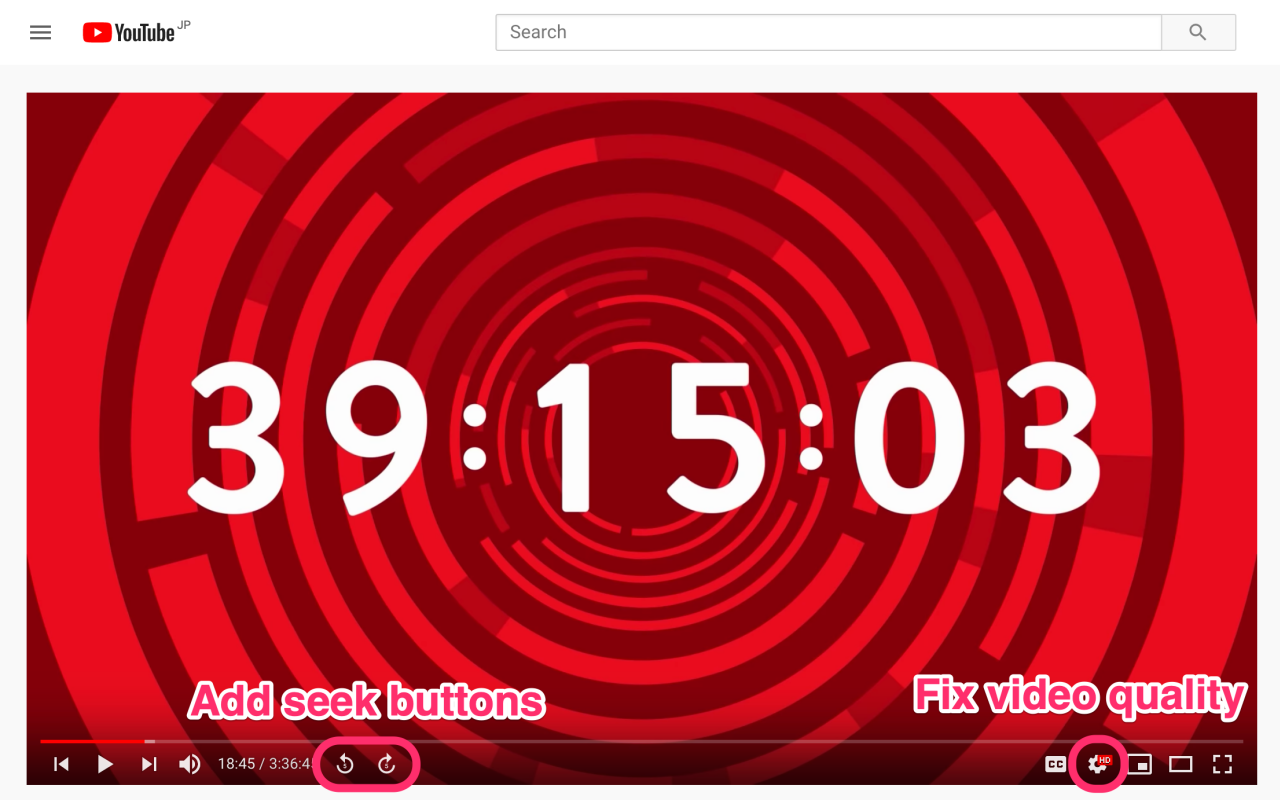
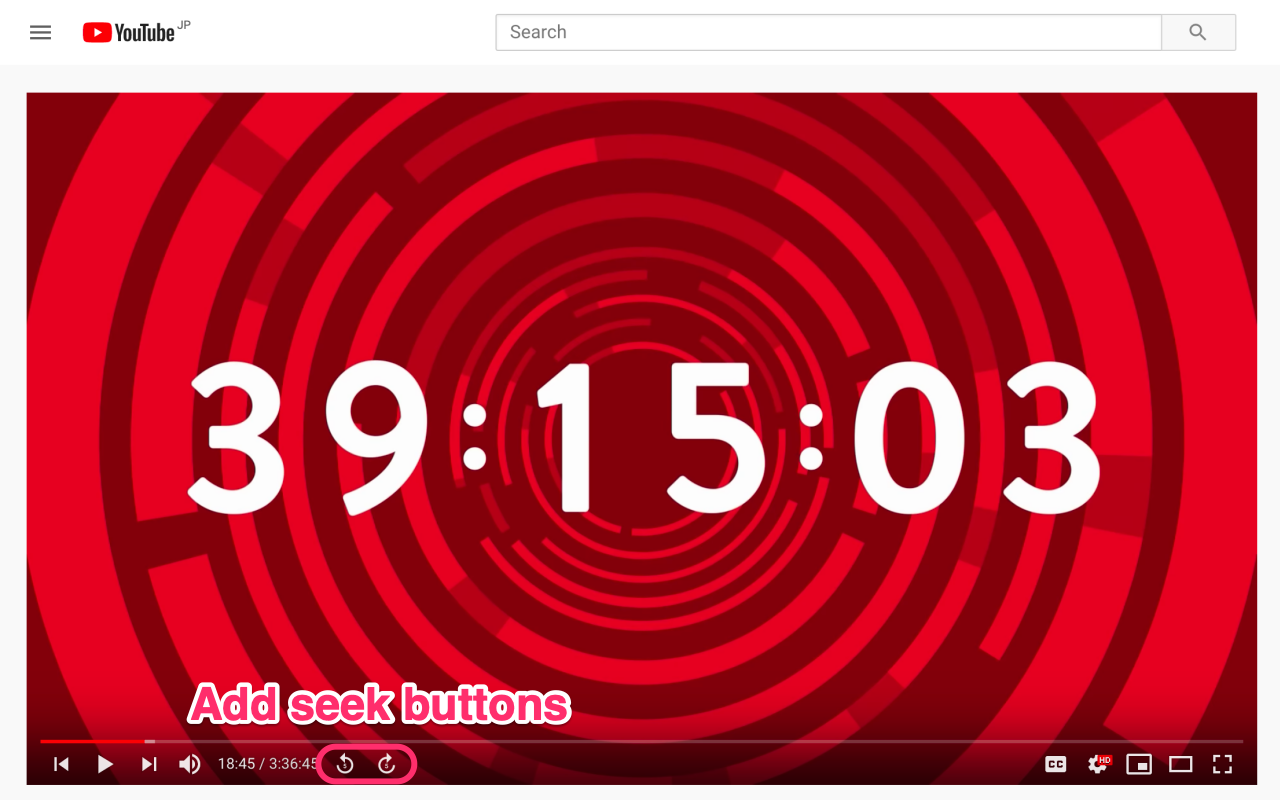
Remove feature

diff --git a/src/pages/popup.vue b/src/pages/popup.vue
@@ -9,12 +9,12 @@
           dense
           class="px-4 mt-0"
         />
-        <v-switch
+        <!-- <v-switch
           v-model="videoQualityFixed"
           label="Always Play at The Highest Video Quality"
           dense
           class="px-4 mt-0"
-        />
+        /> -->
         <v-subheader>Chat</v-subheader>
         <v-switch
           v-model="reloadButtonEnabled"

diff --git a/src/content-script.ts b/src/content-script.ts
@@ -1,6 +1,6 @@
 if (self === top) {
   require('~/features/seek-buttons')
-  require('~/features/video-quality-fixer')
+  // require('~/features/video-quality-fixer')
 } else {
   // require('~/features/force-scroll-button')
   require('~/features/reload-button')

diff --git a/README.md b/README.md
@@ -7,7 +7,6 @@
 ## Features
 
 - Add seek buttons on the bottom control.
-- Play video at fixed quality.
 - Add reload button on the chat menu.
 
 ## Screenshots
